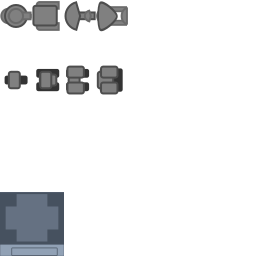
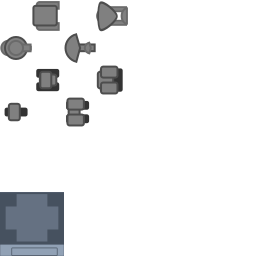
Reduce artifacts on player sprite

Changed region(s): [[0.25, 0.0, 0.375, 0.5], [0.0, 0.0, 0.125, 0.5]]

diff --git a/objects.tsx b/objects.tsx
@@ -1,0 +1,4 @@
+<?xml version="1.0" encoding="UTF-8"?>
+<tileset name="Objects" tilewidth="64" tileheight="64" tilecount="16" columns="4">
+ <image source="gfx/robots_diffuse.png" width="256" height="256"/>
+</tileset>

diff --git a/main.py b/main.py
@@ -201,7 +201,7 @@ class PlayerRobotSprite(RobotSprite):
                 f'{self.MIN}-{self.MAX} (not {v})'
             )
         self._level = v
-        self.sprite.image = self.sprites[self._level, self.ROW]
+        self.sprite.image = self.sprites[self._level, self.ROW + (v + 1) % 2]
 
 
 class EnemyRobotSprite(PlayerRobotSprite):
